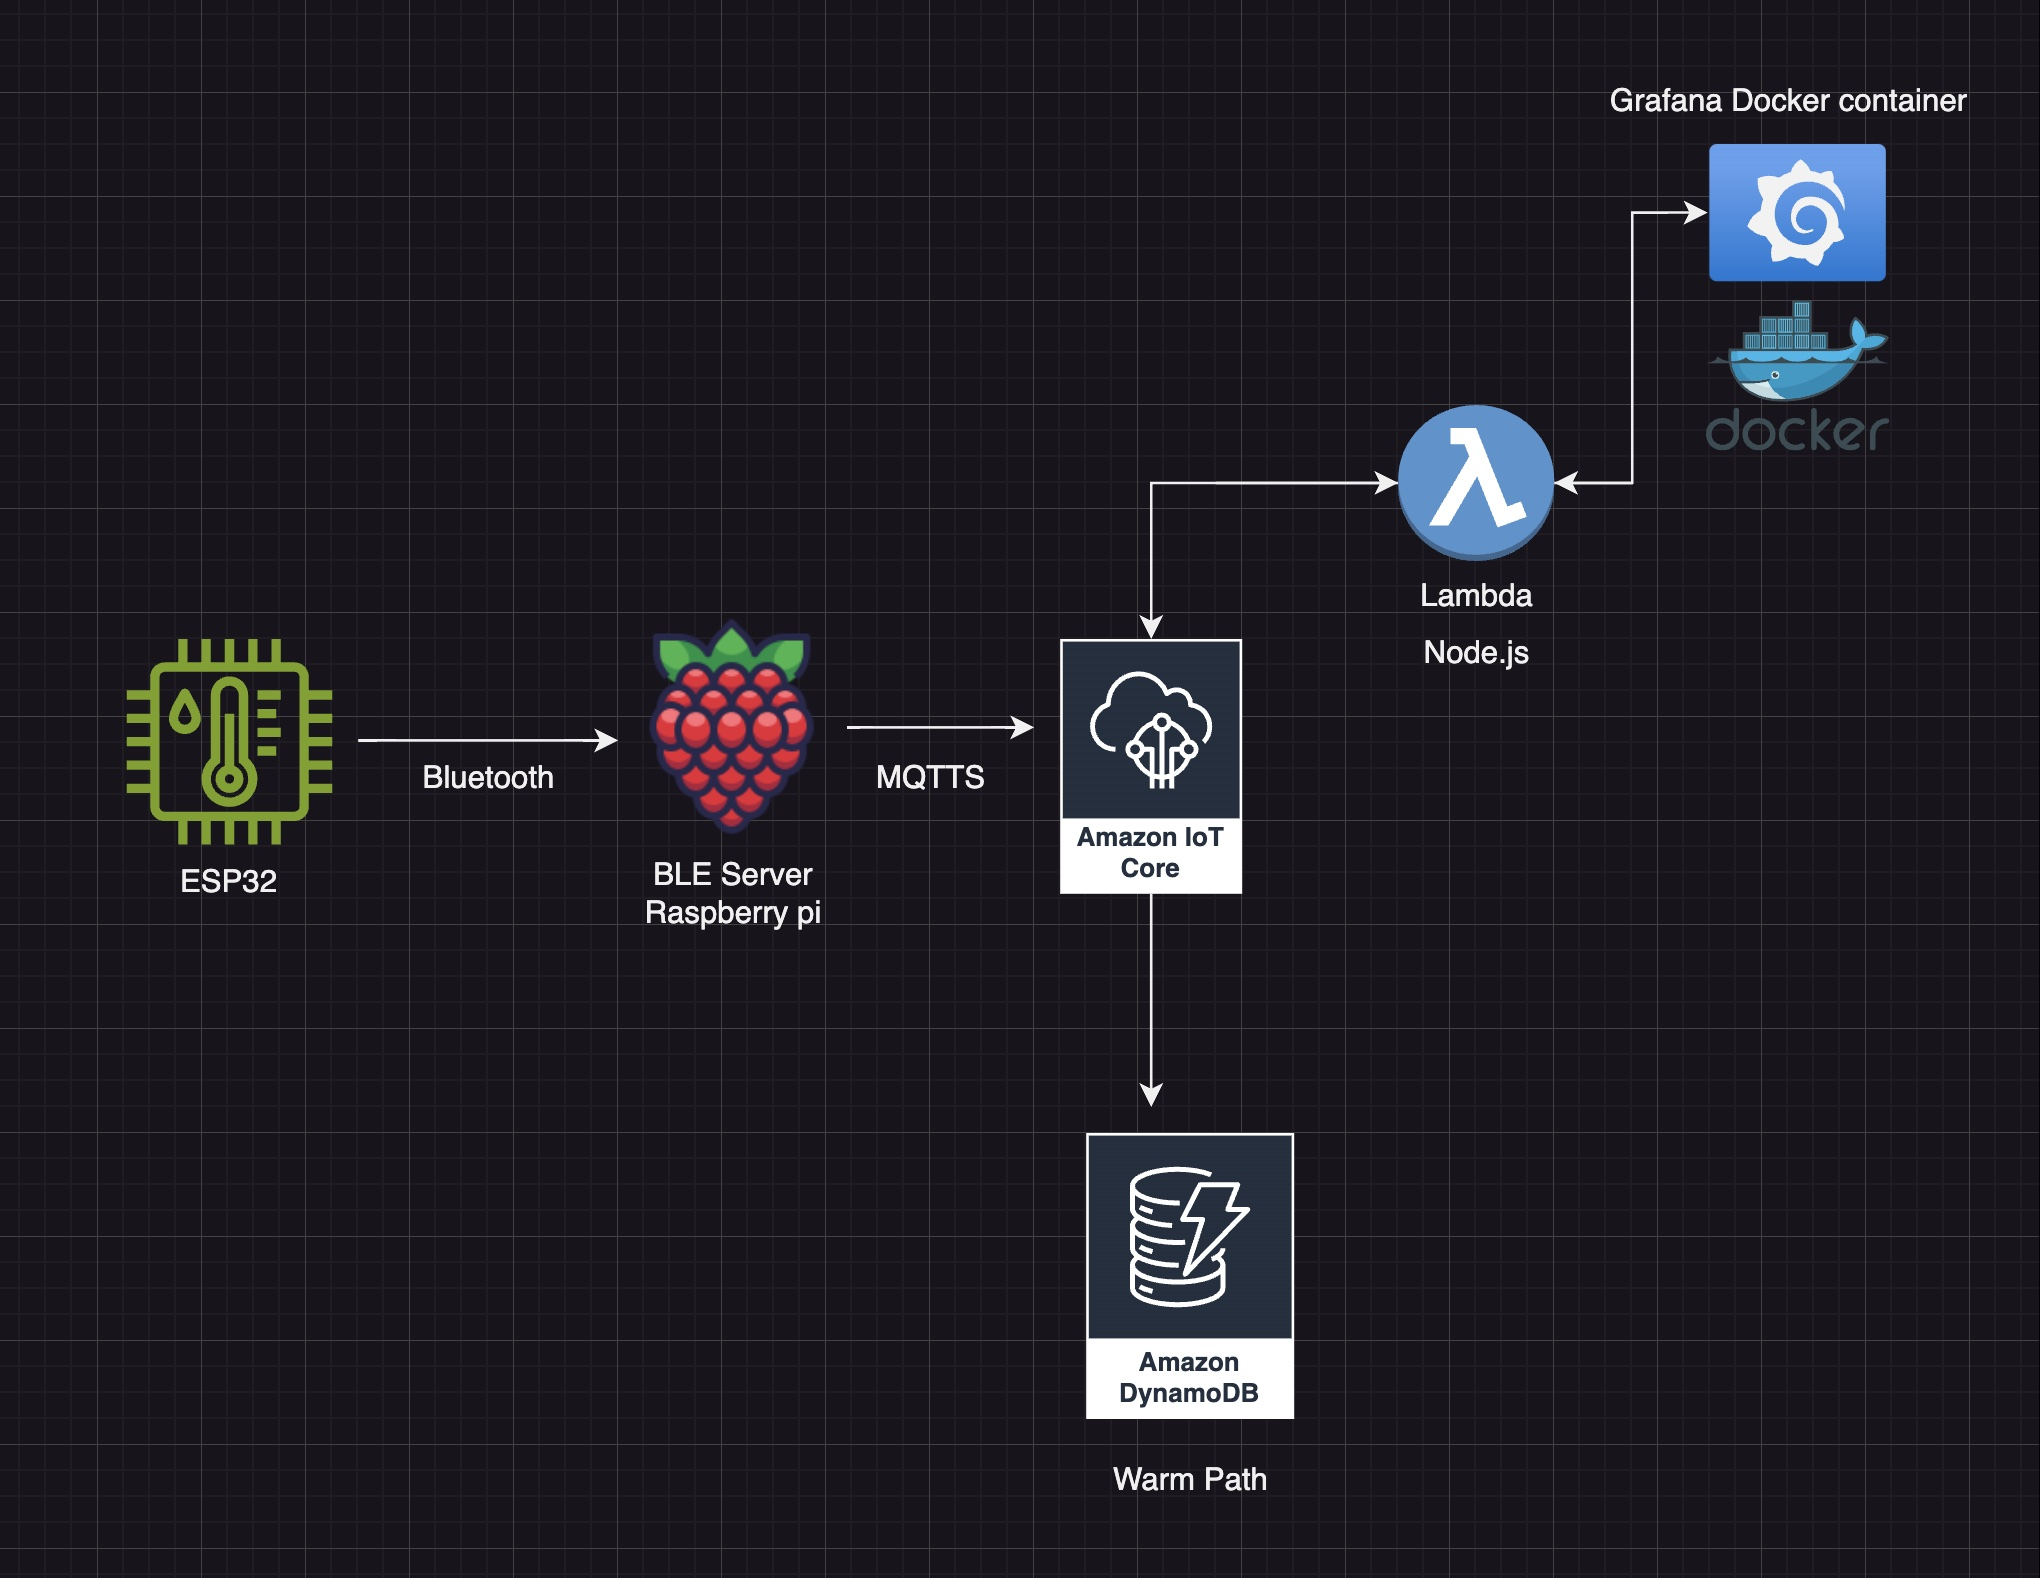
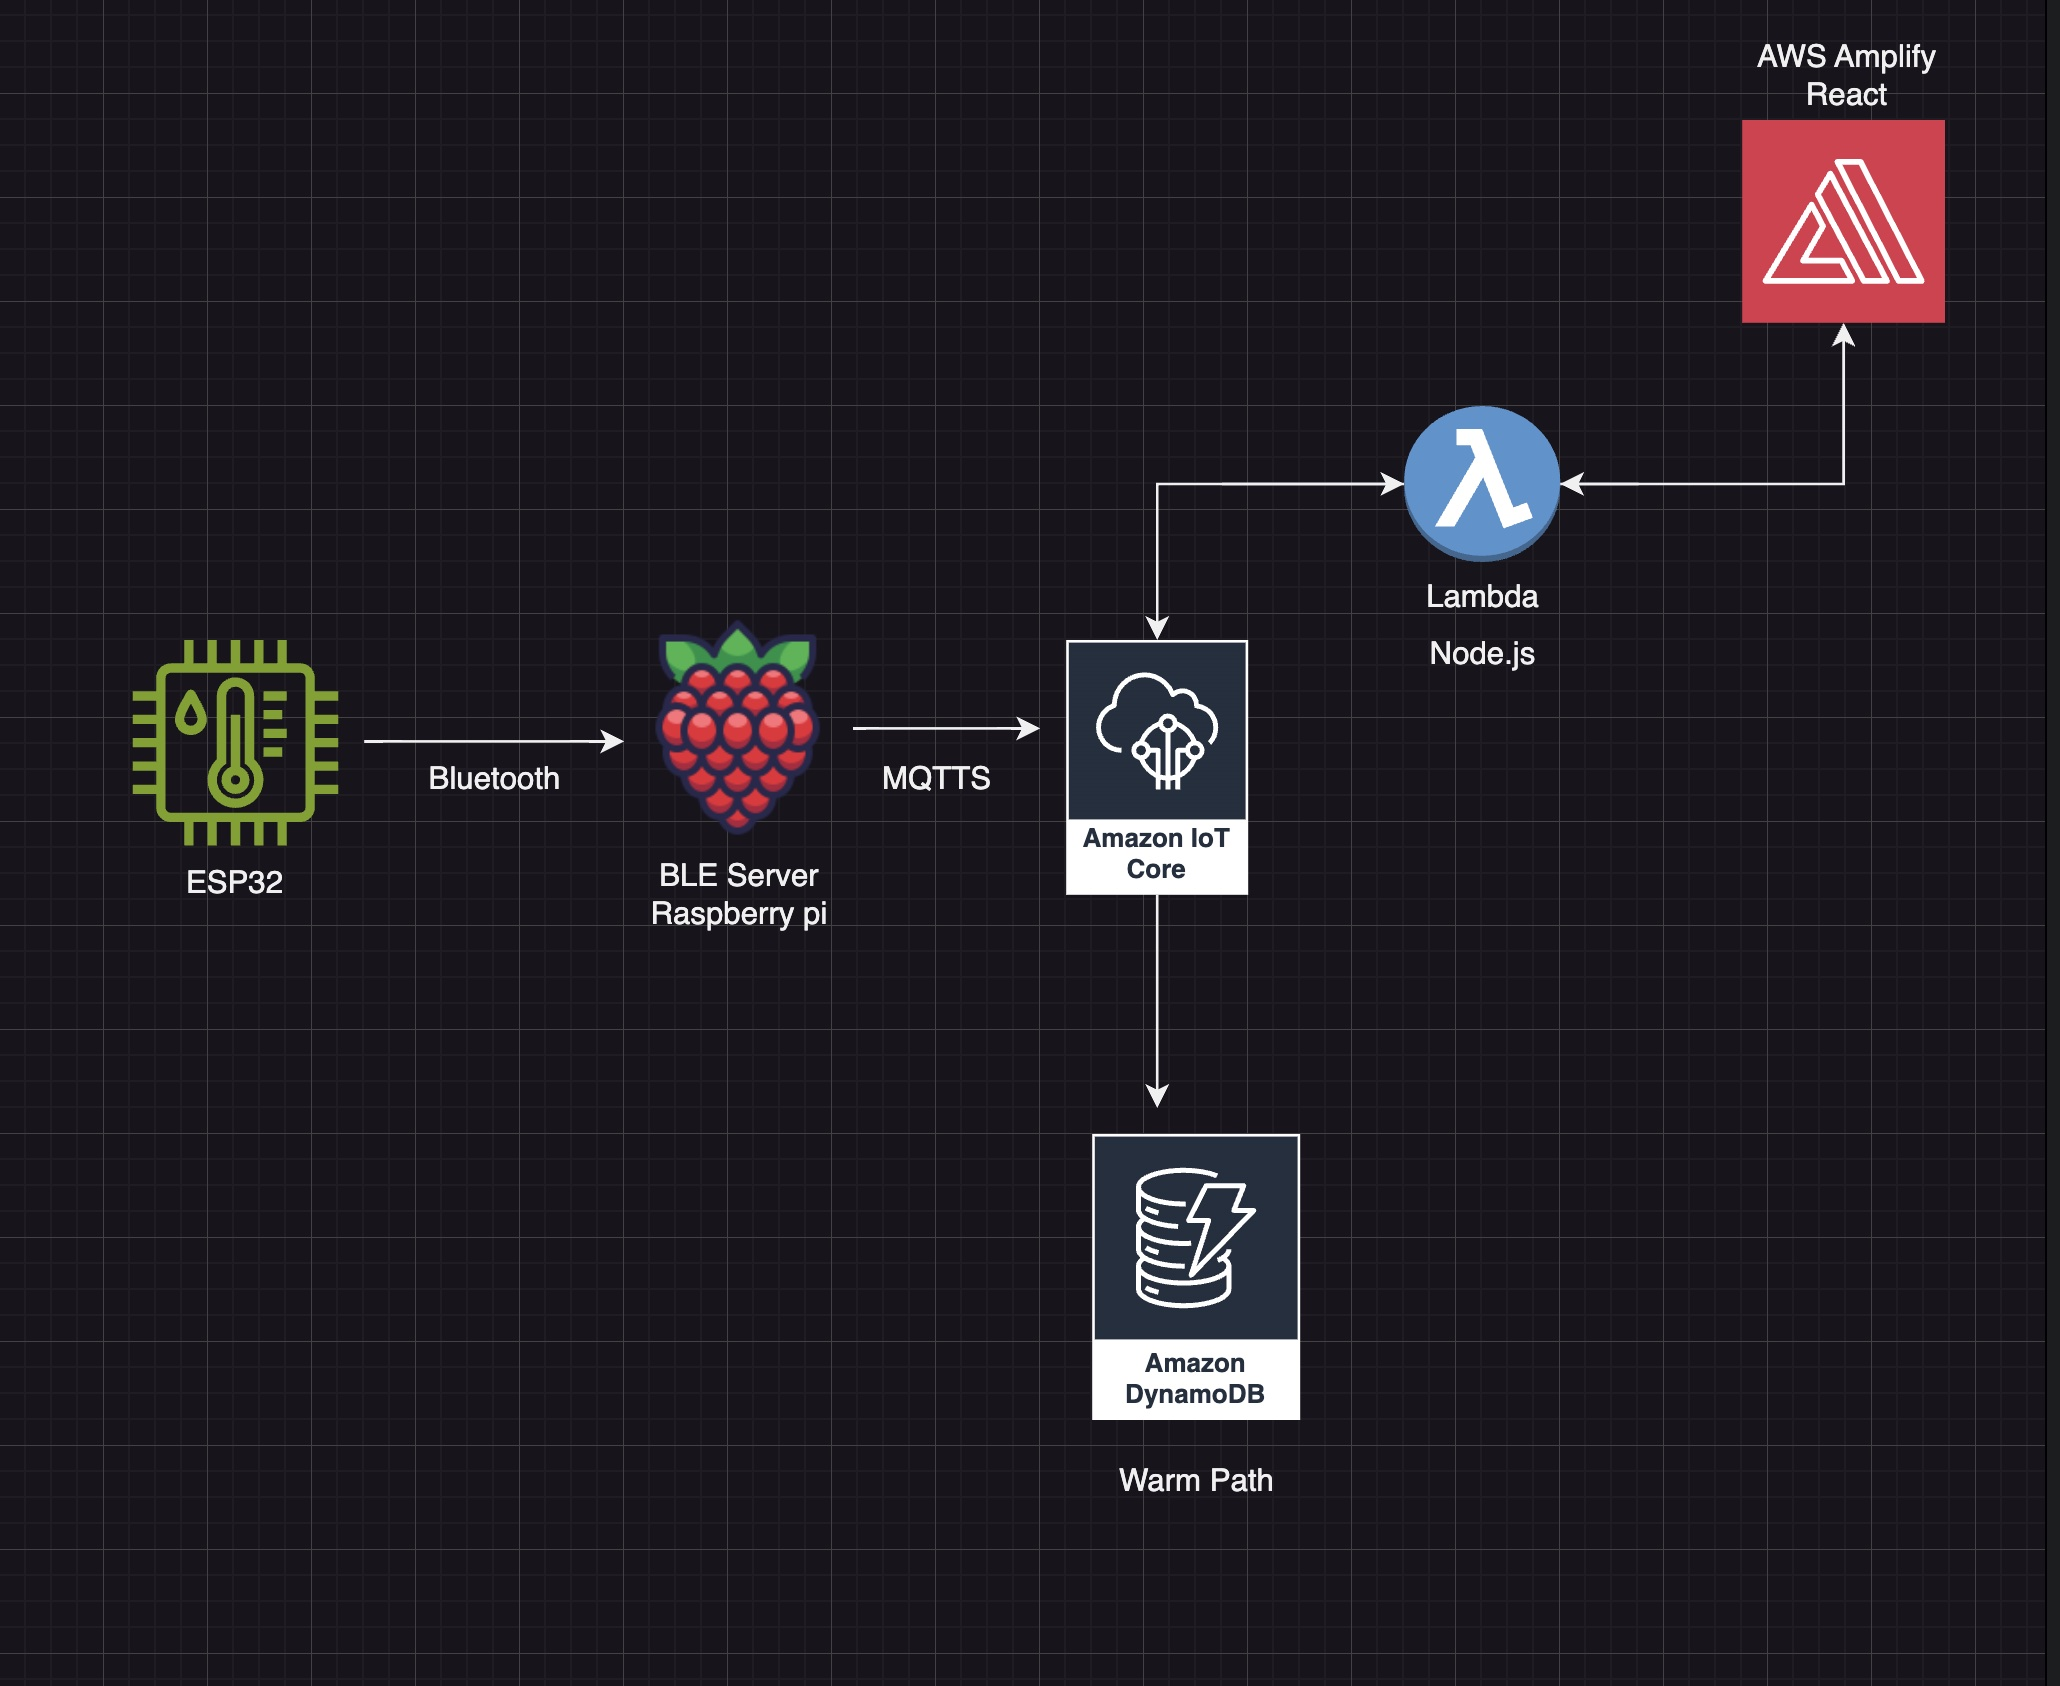
update
the infrastructure is changed from grafana running locally in a docker container to amplify utilizing the react framework for the frontend part.

Changed region(s): [[0.0618, 0.0311, 0.9574, 0.9005], [0.5559, 0.9316, 0.6176, 0.9626]]

diff --git a/README.md b/README.md
@@ -1,6 +1,6 @@
-## Portfolio Project: IoT Data Pipeline with ESP32, Raspberry Pi, AWS IoT Core and Grafana
+## Portfolio Project: IoT Data Pipeline with ESP32, Raspberry Pi, AWS IoT Core and AWS Amplify
 
-This project demonstrates the implementation of a scalable and secure IoT data pipeline, focusing on real-time environmental monitoring and visualization. The architecture integrates an ESP32, Raspberry Pi, AWS IoT Core, DynamoDB, Lambda, and Grafana, enabling real-time data flow, analysis, and visualization.
+This project demonstrates the implementation of a scalable and secure IoT data pipeline, focusing on real-time environmental monitoring and visualization. The architecture integrates an ESP32, Raspberry Pi, AWS IoT Core, DynamoDB, Lambda and AWS Amplify with a React frontend, enabling real-time data flow, analysis, and visualization.
 
 ### Table of Contents
 
@@ -30,10 +30,10 @@ This project demonstrates the implementation of a scalable and secure IoT data p
   -	IoT Core rules or processing functions route the data to DynamoDB for structured storage.
 
 4.	DynamoDB → Lambda:
- -	DynamoDB Streams trigger a Lambda function to process and format the data.
+  - Lambda retrieves data from the database and formats it.
 	
-5.	Lambda → Grafana:
- - The processed data is sent to Grafana for real-time visualization and analytics.
+5.	Lambda → AWS Amplify (React Frontend):
+ - The processed data is made available to AWS Amplify, which powers a React-based web application for real-time visualization and user interaction.
 
 ## Use Case
 
@@ -61,7 +61,7 @@ This project serves Industrial IoT (IIoT) scenarios, specifically for:
 5.	AWS Lambda:
  - Processes data from DynamoDB and prepares it for visualization.
 
-6.	Grafana:
+6.	AWS Amplify / React:
  - Visualizes processed data in near real-time.
 
 ## Key Benefits
@@ -72,6 +72,7 @@ This project serves Industrial IoT (IIoT) scenarios, specifically for:
  - Ensures quick processing and visualization of sensor data.
  - Secure and Reliable:
  - Utilizes AWS services for secure data transfer and controlled access.
+ - Secure visualization through account creation and login screen.
 
 ## Setup Instructions
 
@@ -84,7 +85,7 @@ This project serves Industrial IoT (IIoT) scenarios, specifically for:
  - AWS IoT Core, DynamoDB, Lambda
  - IAM roles with appropriate permissions
  - Visualization Tools:
- - Grafana with AWS Data Source Plugin
+ - AWS Amplify
 
 ***Steps***:
 
@@ -106,8 +107,8 @@ This project serves Industrial IoT (IIoT) scenarios, specifically for:
 5.	AWS Lambda:
  - Write a function to process DynamoDB and forward data to Grafana.
 
-6.	Grafana Dashboard:
- - Configure a Grafana dashboard to visualize data using AWS CloudWatch or other data sources.
+6.	AWS Amplify:
+ - Configure a AWS Amplify template and configure it.
 
 ## How It Works
 
@@ -119,13 +120,14 @@ This project serves Industrial IoT (IIoT) scenarios, specifically for:
  
  4.	Lambda trigger DynamoDB contents
 
- 5.	The processed data is sent to Grafana for visualization in near real-time.
+ 5.	The processed data is sent to Amplify for visualization in near real-time.
 
 ## Future Improvements
 
  - Add support for more sensors and data types.
  - Incorporate AWS Machine Learning services for predictive analytics.
  - Improve fault tolerance and redundancy using AWS IoT SiteWise or similar services.
+ - UI for the gateway part.
 
 ## License
 
